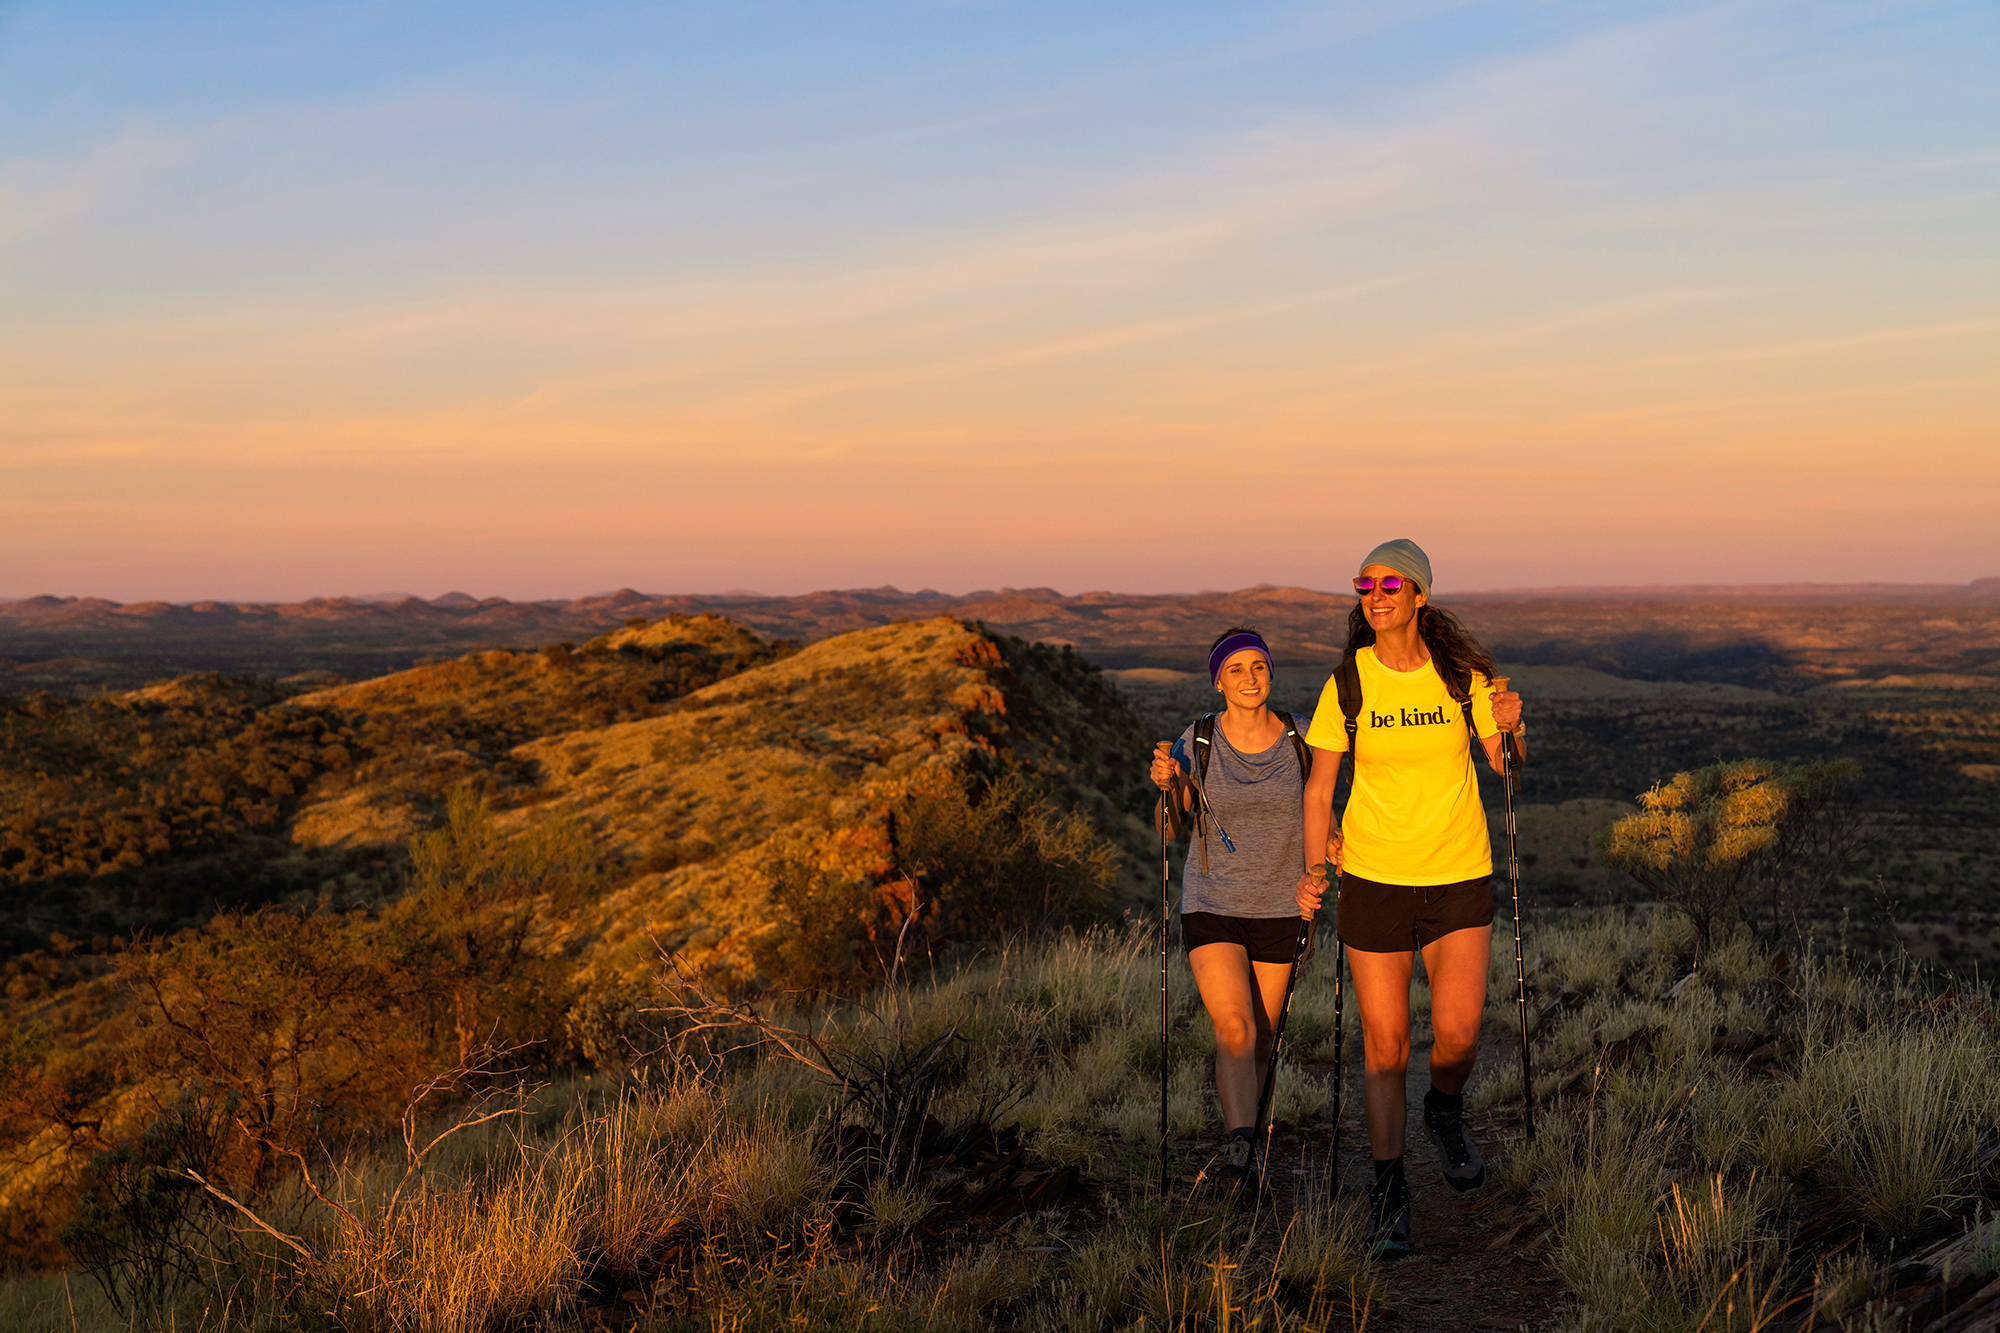
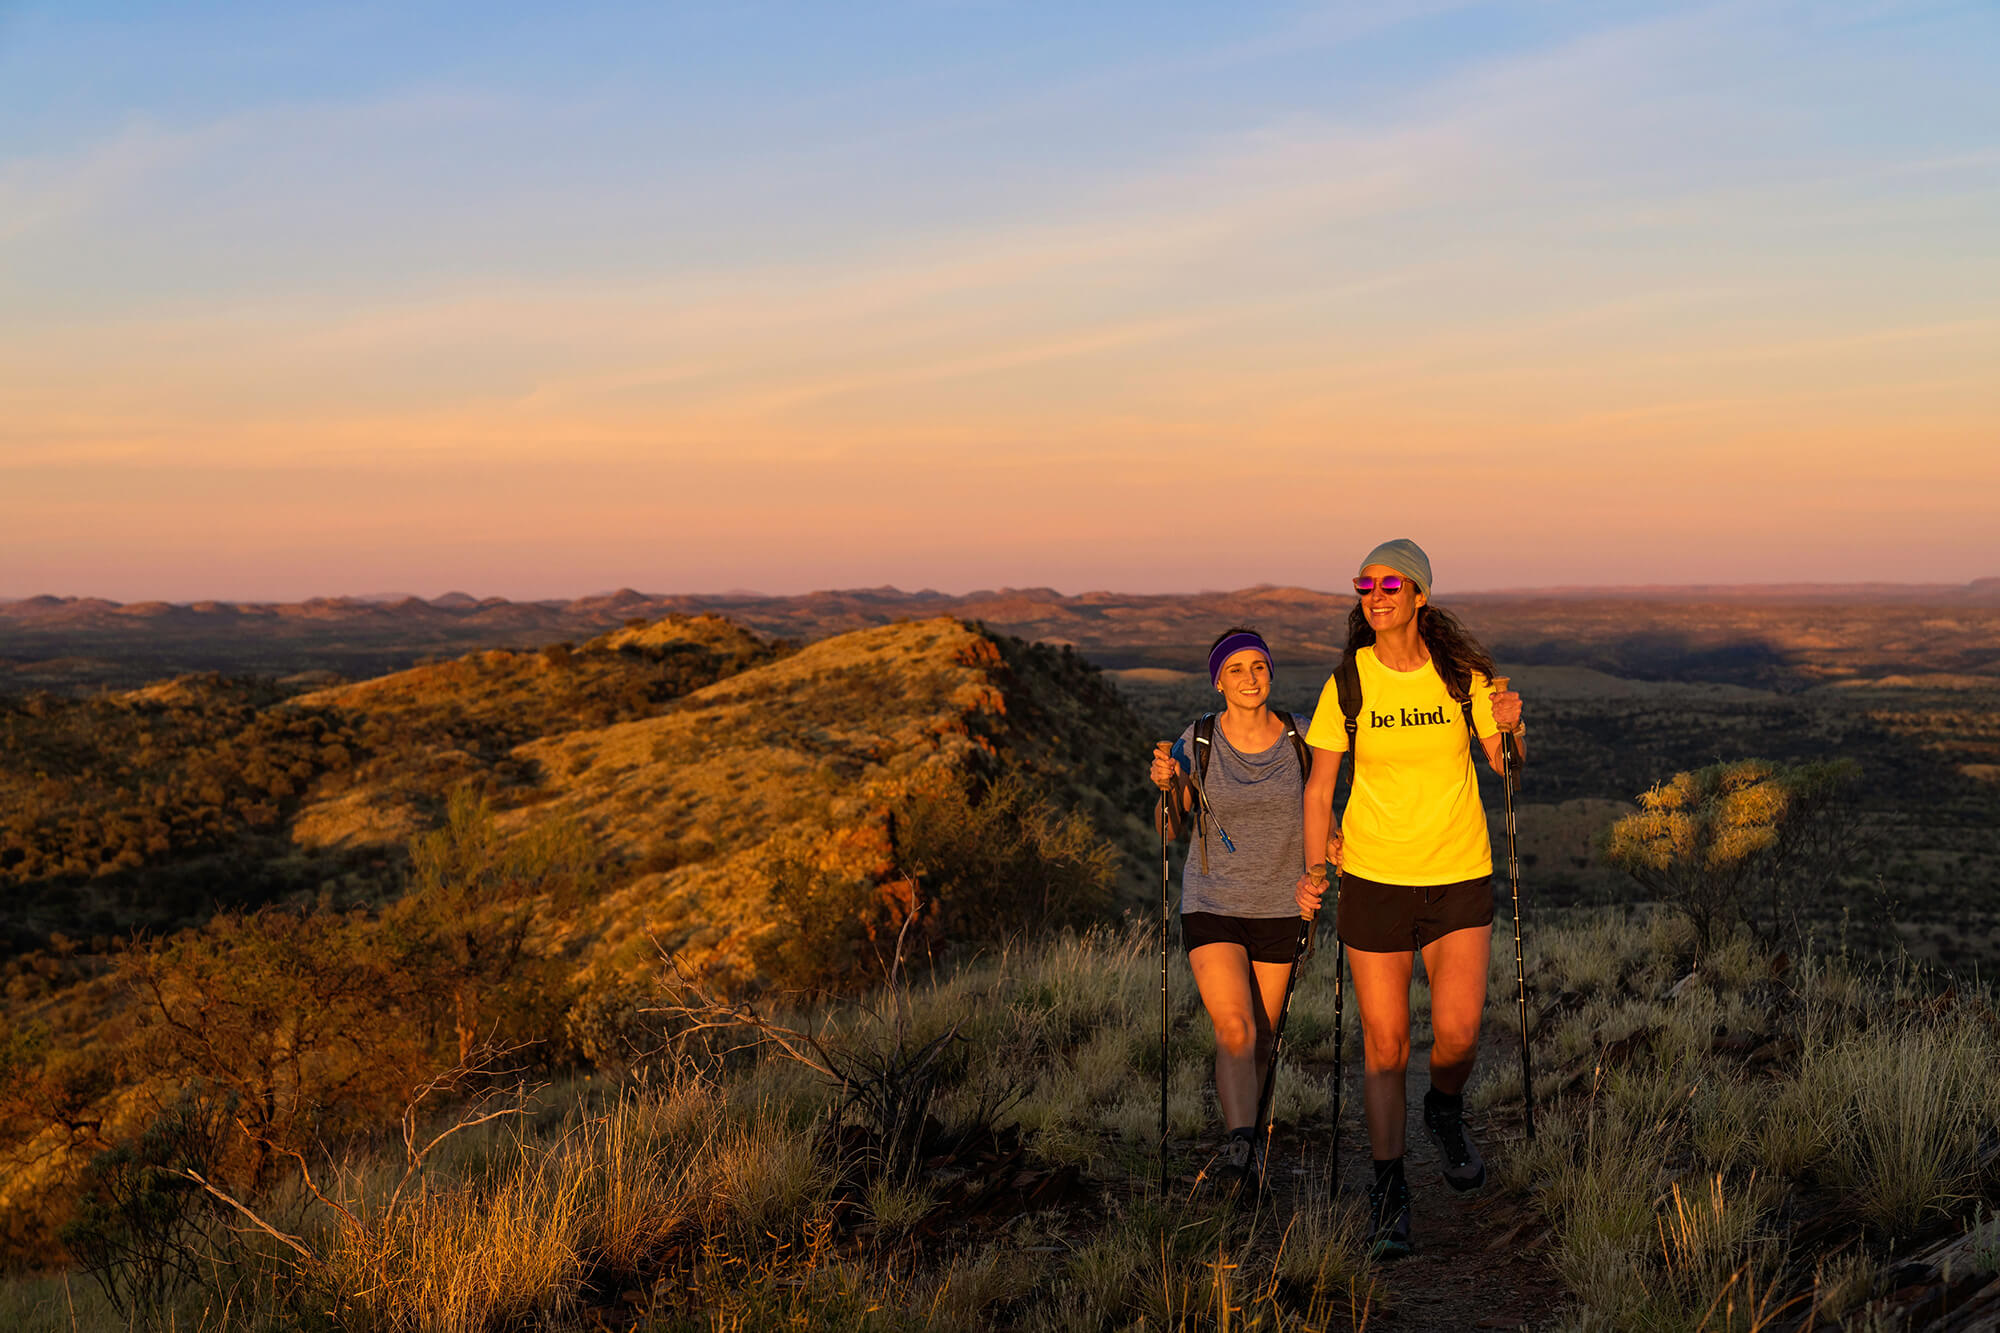
job search form

Changed region(s): [[0.155, 0.8612, 0.372, 1.0]]

diff --git a/src/pages/job-search.html b/src/pages/job-search.html
@@ -434,12 +434,66 @@
                             <div class="container">
                                 <h2>Jobs in the Territory</h2>
             
-                                <div class="search-container">
+                                <div class="search-container small">
                                     <form method="get" id="vacancySearchForm">
                                         <div class="row mb-2">
-                                            <div class="col-lg-3">
-                                                <label for="keyword" class="form-label">Search Keywords or vacancy<a class="ps-1" data-bs-toggle="tooltip" data-bs-title="Keywords"><i class="fas fa-question-circle"></i></a></label>
+                                            <div class="col-md-6 col-lg-3">
+                                                <label for="keyword" class="form-label text-nowrap">Search Keywords or vacancy<a class="ps-1" data-bs-toggle="tooltip" data-bs-title="Keywords"><i class="fas fa-question-circle"></i></a></label>
                                                 <input type="text" class="form-control" id="keyword" name="keyword" placeholder="Keywords or vacancy number">
+                                            </div>
+                                            
+                                            <!--@@ Category field is repeated below for mobile @@-->
+                                            <div class="col-md-6 col-lg-3 d-none d-md-block">
+                                                <label for="jobCategory" class="form-label">Category<a class="ps-1" data-bs-toggle="tooltip" data-bs-title="Categories"><i class="fas fa-question-circle"></i></a></label>
+                                                <select id="jobCategory" name="jobCategory[]" class="form-select" aria-label="Job Category" multiple="multiple" placeholder="All Categories">
+                                                    <option value="Aboriginal Health Practitioners">Aboriginal Health Practitioners</option>
+                                                    <option value="Accounting and Finance">Accounting and Finance</option>
+                                                    <option value="Administration and Business Services">Administration and Business Services</option>
+                                                    <option value="Aged and Disability Care">Aged and Disability Care</option>
+                                                    <option value="Agriculture, Animal and Horticulture">Agriculture, Animal and Horticulture</option>
+                                                    <option value="Allied Health and Health Care Services">Allied Health and Health Care Services</option>
+                                                    <option value="Auditing and Compliance">Auditing and Compliance</option>
+                                                    <option value="Child Protection">Child Protection</option>
+                                                    <option value="Communication, Media and Public Relations">Communication, Media and Public Relations</option>
+                                                    <option value="Community Services">Community Services</option>
+                                                    <option value="Construction, Architecture and Design">Construction, Architecture and Design</option>
+                                                    <option value="Education and Training">Education and Training</option>
+                                                    <option value="Engineering">Engineering</option>
+                                                    <option value="Environment, Natural Resources and Conservation">Environment, Natural Resources and Conservation</option>
+                                                    <option value="Executive and Senior Management">Executive and Senior Management</option>
+                                                    <option value="General Management">General Management</option>
+                                                    <option value="Hospitality and Food Services">Hospitality and Food Services</option>
+                                                    <option value="Housekeeping Services">Housekeeping Services</option>
+                                                    <option value="Human Resources and Work Health Safety">Human Resources and Work Health Safety</option>
+                                                    <option value="Information and Communication Technology (ICT)">Information and Communication Technology (ICT)</option>
+                                                    <option value="Information and Records Management">Information and Records Management</option>
+                                                    <option value="Legal">Legal</option>
+                                                    <option value="Mechanical Services, Vehicles and Drivers">Mechanical Services, Vehicles and Drivers</option>
+                                                    <option value="Medical Officer">Medical Officer</option>
+                                                    <option value="Nursing and Midwifery">Nursing and Midwifery</option>
+                                                    <option value="Oral Health">Oral Health</option>
+                                                    <option value="Payroll">Payroll</option>
+                                                    <option value="Police, Fire and Emergency Workers">Police, Fire and Emergency Workers</option>
+                                                    <option value="Policy and Planning">Policy and Planning</option>
+                                                    <option value="Primary Industry">Primary Industry</option>
+                                                    <option value="Prison Services">Prison Services</option>
+                                                    <option value="Probation and Parole Officer">Probation and Parole Officer</option>
+                                                    <option value="Procurement, Grants and Contract Management">Procurement, Grants and Contract Management</option>
+                                                    <option value="Professional">Professional</option>
+                                                    <option value="Program and Project Management">Program and Project Management</option>
+                                                    <option value="Property Management and Housing Services">Property Management and Housing Services</option>
+                                                    <option value="Psychology, Counselling and Social Work">Psychology, Counselling and Social Work</option>
+                                                    <option value="Rangers">Rangers</option>
+                                                    <option value="School Based Positions">School Based Positions</option>
+                                                    <option value="Science and Technology">Science and Technology</option>
+                                                    <option value="Sport and Recreation">Sport and Recreation</option>
+                                                    <option value="Teachers and Principals">Teachers and Principals</option>
+                                                    <option value="Tourism and Culture">Tourism and Culture</option>
+                                                    <option value="Trades, Maintenance and Services">Trades, Maintenance and Services</option>
+                                                    <option value="Traineeship, Cadetship and Graduate Programs">Traineeship, Cadetship and Graduate Programs</option>
+                                                    <option value="Transport and Logistics">Transport and Logistics</option>
+                                                    <option value="Vacation Employment">Vacation Employment</option>
+                                                </select>
                                             </div>
                                         </div>
                                         
@@ -474,8 +528,9 @@
                                                         <option value="Territory Generation">Territory Generation</option>
                                                     </select>
                                                 </div>
-                
-                                                <div class="col-md-6 col-lg-3">
+
+                                                <!--@@ Category field is repeated above for desktop @@-->
+                                                <div class="col-md-6 col-lg-3 d-md-none d-block">
                                                     <label for="jobCategory" class="form-label">Category<a class="ps-1" data-bs-toggle="tooltip" data-bs-title="Categories"><i class="fas fa-question-circle"></i></a></label>
                                                     <select id="jobCategory" name="jobCategory[]" class="form-select" aria-label="Job Category" multiple="multiple" placeholder="All Categories">
                                                         <option value="Aboriginal Health Practitioners">Aboriginal Health Practitioners</option>
@@ -559,92 +614,106 @@
                                             </div>
                                             <div class="collapse" id="expandSearch">
                                                 <div class="row gy-2">
-                                                    <div class="col">
-                                                        <label for="renumerationFrom" class="form-label visually-hidden">Renumeration from</label>
-                                                        <select id="renumerationFrom" name="renumerationFrom" class="form-select rounded-pill" aria-label="Renumeration From">
-                                                            <option value="0" selected>$0</option>
-                                                            <option value="30000">$30k</option>
-                                                            <option value="40000">$40k</option>
-                                                            <option value="50000">$50k</option>
-                                                            <option value="60000">$60k</option>
-                                                            <option value="70000">$70k</option>
-                                                            <option value="80000">$80k</option>
-                                                            <option value="100000">$100k</option>
-                                                            <option value="120000">$120k</option>
-                                                            <option value="150000">$150k</option>
-                                                            <option value="200000">$200k</option>
-                                                            <option value="250000">$250k</option>
-                                                            <option value="350000">$350k</option>
-                                                        </select>
+                                                    <div class="col-lg">
+                                                        <div class="row g-2">
+                                                            <div class="col-7">
+                                                                <label for="renumerationFrom" class="form-label visually-hidden">Renumeration from</label>
+                                                                <select id="renumerationFrom" name="renumerationFrom" class="form-select rounded-pill" aria-label="Renumeration From">
+                                                                    <option value="0" selected>$0</option>
+                                                                    <option value="30000">$30k</option>
+                                                                    <option value="40000">$40k</option>
+                                                                    <option value="50000">$50k</option>
+                                                                    <option value="60000">$60k</option>
+                                                                    <option value="70000">$70k</option>
+                                                                    <option value="80000">$80k</option>
+                                                                    <option value="100000">$100k</option>
+                                                                    <option value="120000">$120k</option>
+                                                                    <option value="150000">$150k</option>
+                                                                    <option value="200000">$200k</option>
+                                                                    <option value="250000">$250k</option>
+                                                                    <option value="350000">$350k</option>
+                                                                </select>
+                                                            </div>
+                                                            <div class="col-5">
+                                                                <label for="renumerationTo" class="form-label visually-hidden">Renumeration to</label>
+                                                                <select id="renumerationTo" name="renumerationTo" class="form-select rounded-pill" aria-label="Renumeration To">
+                                                                    <option value="0">$0</option>
+                                                                    <option value="30000">$30k</option>
+                                                                    <option value="40000">$40k</option>
+                                                                    <option value="50000">$50k</option>
+                                                                    <option value="60000">$60k</option>
+                                                                    <option value="70000">$70k</option>
+                                                                    <option value="80000">$80k</option>
+                                                                    <option value="100000">$100k</option>
+                                                                    <option value="120000">$120k</option>
+                                                                    <option value="150000">$150k</option>
+                                                                    <option value="200000">$200k</option>
+                                                                    <option value="250000">$250k</option>
+                                                                    <option value="350000">$350k</option>
+                                                                    <option value="max" selected>$350k+</option>
+                        
+                                                                </select>
+                                                            </div>
+                                                        </div>
                                                     </div>
-                                                    <div class="col">
-                                                        <label for="renumerationTo" class="form-label visually-hidden">Renumeration to</label>
-                                                        <select id="renumerationTo" name="renumerationTo" class="form-select rounded-pill" aria-label="Renumeration To">
-                                                            <option value="0">$0</option>
-                                                            <option value="30000">$30k</option>
-                                                            <option value="40000">$40k</option>
-                                                            <option value="50000">$50k</option>
-                                                            <option value="60000">$60k</option>
-                                                            <option value="70000">$70k</option>
-                                                            <option value="80000">$80k</option>
-                                                            <option value="100000">$100k</option>
-                                                            <option value="120000">$120k</option>
-                                                            <option value="150000">$150k</option>
-                                                            <option value="200000">$200k</option>
-                                                            <option value="250000">$250k</option>
-                                                            <option value="350000">$350k</option>
-                                                            <option value="max" selected>$350k+</option>
-                
-                                                        </select>
+                                                    <div class="col-lg">
+                                                        <div class="row g-2">
+                                                            <div class="col-7 salaryFrom">
+                                                                <label for="salaryFrom" class="form-label visually-hidden">Salary from</label>
+                                                                <select id="salaryFrom" name="salaryFrom" class="form-select rounded-pill" aria-label="Salary From">
+                                                                    <option value="0" selected>$0</option>
+                                                                    <option value="30000">$30k</option>
+                                                                    <option value="40000">$40k</option>
+                                                                    <option value="50000">$50k</option>
+                                                                    <option value="60000">$60k</option>
+                                                                    <option value="70000">$70k</option>
+                                                                    <option value="80000">$80k</option>
+                                                                    <option value="100000">$100k</option>
+                                                                    <option value="120000">$120k</option>
+                                                                    <option value="150000">$150k</option>
+                                                                    <option value="200000">$200k</option>
+                                                                    <option value="250000">$250k</option>
+                                                                    <option value="350000">$350k</option>
+                                                                </select>
+                                                            </div>
+                                                            <div class="col-5 salaryTo">
+                                                                <label for="salaryTo" class="form-label visually-hidden">Salary to</label>
+                                                                <select id="salaryTo" name="salaryTo" class="form-select rounded-pill" aria-label="Salary To">
+                                                                    <option value="0">$0</option>
+                                                                    <option value="30000">$30k</option>
+                                                                    <option value="40000">$40k</option>
+                                                                    <option value="50000">$50k</option>
+                                                                    <option value="60000">$60k</option>
+                                                                    <option value="70000">$70k</option>
+                                                                    <option value="80000">$80k</option>
+                                                                    <option value="100000">$100k</option>
+                                                                    <option value="120000">$120k</option>
+                                                                    <option value="150000">$150k</option>
+                                                                    <option value="200000">$200k</option>
+                                                                    <option value="250000">$250k</option>
+                                                                    <option value="350000">$350k</option>
+                                                                    <option value="max" selected>$350k+</option>
+                                                                </select>
+                                                            </div>
+                                                        </div>
                                                     </div>
-                                                    <div class="col">
-                                                        <label for="salaryFrom" class="form-label visually-hidden">Salary from</label>
-                                                        <select id="salaryFrom" name="salaryFrom" class="form-select rounded-pill" aria-label="Salary From">
-                                                            <option value="0" selected>$0</option>
-                                                            <option value="30000">$30k</option>
-                                                            <option value="40000">$40k</option>
-                                                            <option value="50000">$50k</option>
-                                                            <option value="60000">$60k</option>
-                                                            <option value="70000">$70k</option>
-                                                            <option value="80000">$80k</option>
-                                                            <option value="100000">$100k</option>
-                                                            <option value="120000">$120k</option>
-                                                            <option value="150000">$150k</option>
-                                                            <option value="200000">$200k</option>
-                                                            <option value="250000">$250k</option>
-                                                            <option value="350000">$350k</option>
-                                                        </select>
+                                                    <div class="col-xxl-auto">
+                                                        <div class="row">
+                                                            <div class="col-7 col-lg-auto">
+                                                                <label for="listedTime" class="form-label visually-hidden">Listed time</label>
+                                                                <select id="listedTime" name="listedTime" class="form-select rounded-pill" aria-label="Listed Time">
+                                                                    <option value="anytime">Anytime</option>
+                                                                    <option value="today">Today</option>
+                                                                    <option value="3">Last 3 days</option>
+                                                                    <option value="7">Last 7 days</option>
+                                                                    <option value="14">Last 14 days</option>
+                                                                    <option value="30">Last 30 days</option>
+                                                                </select>
+                                                            </div>
+                                                        </div>
                                                     </div>
-                                                    <div class="col">
-                                                        <label for="salaryTo" class="form-label visually-hidden">Salary to</label>
-                                                        <select id="salaryTo" name="salaryTo" class="form-select rounded-pill" aria-label="Salary To">
-                                                            <option value="0">$0</option>
-                                                            <option value="30000">$30k</option>
-                                                            <option value="40000">$40k</option>
-                                                            <option value="50000">$50k</option>
-                                                            <option value="60000">$60k</option>
-                                                            <option value="70000">$70k</option>
-                                                            <option value="80000">$80k</option>
-                                                            <option value="100000">$100k</option>
-                                                            <option value="120000">$120k</option>
-                                                            <option value="150000">$150k</option>
-                                                            <option value="200000">$200k</option>
-                                                            <option value="250000">$250k</option>
-                                                            <option value="350000">$350k</option>
-                                                            <option value="max" selected>$350k+</option>
-                                                        </select>
-                                                    </div>
-                                                    <div class="col">
-                                                        <label for="listedTime" class="form-label visually-hidden">Listed time</label>
-                                                        <select id="listedTime" name="listedTime" class="form-select rounded-pill" aria-label="Listed Time">
-                                                            <option value="anytime">Anytime</option>
-                                                            <option value="today">Today</option>
-                                                            <option value="3">Last 3 days</option>
-                                                            <option value="7">Last 7 days</option>
-                                                            <option value="14">Last 14 days</option>
-                                                            <option value="30">Last 30 days</option>
-                                                        </select>
-                                                    </div>
+                                                    
+
                                                 </div>
                                             </div>
                                         </div>
@@ -655,9 +724,14 @@
                                             </a>
                                         </div>
 
-                                        <div class="mt-3 d-flex gap-3">
-                                            <button type="submit" class="btn btn-olive-green rounded-pill px-5 px-lg-7">Search</button>
-                                            <a type="button" href="?" class="btn btn-dark-blue rounded-pill px-5 reset">Reset</a>
+                                        <div class="row mt-3 align-items-center">
+                                            <div class="col-8 col-md-4">
+                                                <button type="submit" class="btn btn-central-australia rounded-pill w-100 py-2">SEARCH</button>
+                                            </div>
+                                            <div class="col-auto">
+                                                <a href="?" class="reset text-white">RESET</a>
+                                            </div>
+                                            
                                         </div>
                                     </form>
                                 </div>

diff --git a/src/css/scss/components/custom/_jobsearch.scss b/src/css/scss/components/custom/_jobsearch.scss
@@ -5,6 +5,10 @@
     --bs-link-hover-color-rgb: 204,204,204;
     color: var(--text-color);
 
+    @include media-breakpoint-down(md) {
+        padding-bottom: 5rem;
+    }
+
     @include media-breakpoint-up(lg) {
         padding: 10rem 0;
     }
@@ -14,6 +18,10 @@
 
         > .CaptionCont>label >i {
             display: none;
+        }
+
+        > .CaptionCont > span {
+            padding-right: 10px;
         }
 
         &.open {
@@ -40,7 +48,7 @@
     input {
         --bs-body-bg: #{$white};
         border-radius: 8px;
-        font-size: 1rem;
+        @extend .small;
         padding: 12px 2rem 12px 20px;
         border: var(--bs-border-width) solid var(--bs-border-color);
         background-color: $white;
@@ -58,13 +66,6 @@
             margin: 1rem 0;
         }
 
-        .sumo_listedTime,
-        .sumo_salaryTo,
-        .sumo_salaryFrom {
-            @include media-breakpoint-down(md) {
-                display: none;
-            }
-        }
 
         .SumoSelect >.CaptionCont {
             background-color: transparent;